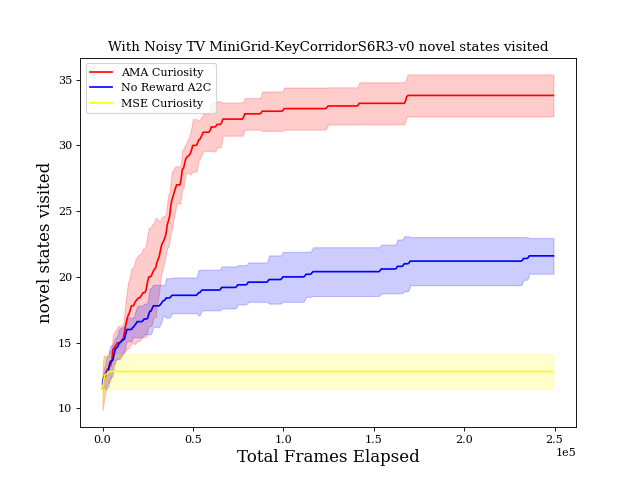
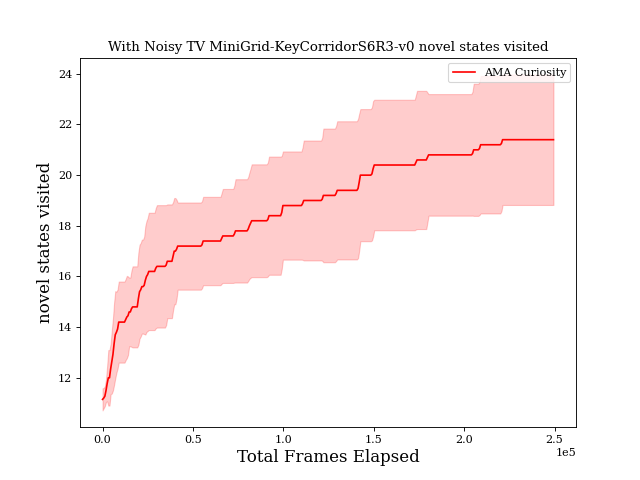
random exploration performs surprisingly well

diff --git a/rl-starter/src/scripts/plot.py b/rl-starter/src/scripts/plot.py
@@ -123,13 +123,13 @@ def main(args):
 
         path_strings_noisy_tv = [
             Curious_True_Noisy_True_Uncertain_True,
-            Curious_False_Noisy_True_Uncertain_False,
-            Curious_True_Noisy_True_Uncertain_False,
+        #    Curious_False_Noisy_True_Uncertain_False,
+        #    Curious_True_Noisy_True_Uncertain_False,
         ]
         path_strings_no_noisy = [
-            Curious_False_Noisy_False_Uncertain_False,
+        #    Curious_False_Noisy_False_Uncertain_False,
             Curious_True_Noisy_False_Uncertain_True,
-            Curious_True_Noisy_False_Uncertain_False,
+        #    Curious_True_Noisy_False_Uncertain_False,
         ]
 
         plot("With Noisy TV " + args.environment, path_strings_noisy_tv, quantity)

diff --git a/rl-starter/src/scripts/a2c.py b/rl-starter/src/scripts/a2c.py
@@ -152,7 +152,8 @@ class A2CAlgo(BaseAlgo):
                 else:
                     dist, value = self.acmodel(preprocessed_obs)
             action = dist.sample()
-            obs, extrinsic_reward, done, _ = self.env.step(action.cpu().numpy())
+            action_used = np.random.randint(6, size=16)
+            obs, extrinsic_reward, done, _ = self.env.step(action_used)
             reward = extrinsic_reward
             self.update_visitation_counts(self.env.envs)
             self.obss[i] = self.obs
